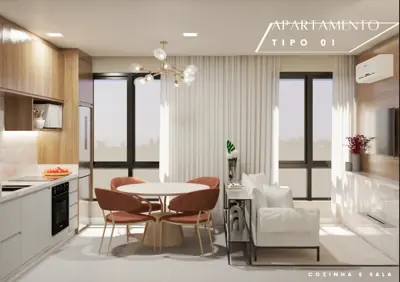
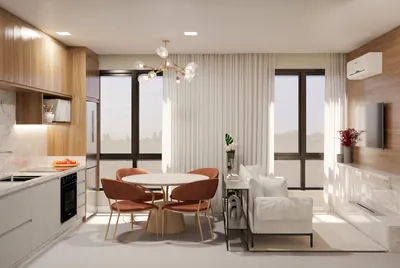
Tour 3D: imagens HD fotorrealistas (Higgsfield), modo foto e correção do Tipo 03
- 4 imagens regeneradas com Nano Banana 2.1 em 2K (Tipo 01, Tipo 02, Tipo 03/05 e salão),
  mais a imagem de referência como nova cozinha do Tipo 01; versões HD, 800 px e miniaturas
- Modo foto no tour: imagem HD sobre o 3D ao chegar em cada ponto, com fade após decodificar,
  volta ao 3D ao andar, botão para alternar, srcset para celular
- lookdev: bump à prova de NaN (o Tipo 03 ficava preto com pontos brancos)
- docs/tour-hd.md: padrão visual, status, bloqueios (créditos, Canva) e passo a passo
- tools/exportar-imagens-tour.py para o acabamento e exportação das próximas imagens

Claude-Session: https://claude.ai/code/session_01AKxKuKdZ5enkKrHiBv7zWP

diff --git a/js/tour/player.js b/js/tour/player.js
@@ -222,13 +222,42 @@ let shot = null, busy = false, queue = Promise.resolve(), want = 0;
 function place(s, jump) {
   const a = lookAngles(s.pos, s.look);
   vel.set(0, 0);
-  if (jump || calm) { pos.set(...s.pos); yaw = yawT = a.yaw; pitch = pitchT = a.pitch; tween = null; }
+  if (jump || calm) { pos.set(...s.pos); yaw = yawT = a.yaw; pitch = pitchT = a.pitch; tween = null; showPhoto(s); }
   else { yaw = yawT; pitch = pitchT; tween = { t: 0, from: { p: pos.clone(), yaw, pitch }, to: { p: new THREE.Vector3(...s.pos), yaw: shortest(yaw, a.yaw), pitch: a.pitch } }; }
   dirty = true;
 }
 const veil = $('loading');
+
+/* ---------- vista fotorrealista em alta definição ----------
+   Cada ponto de foto tem uma imagem fotográfica em HD (até 2560 px). Ao chegar no ponto, ela
+   aparece por cima do 3D com uma transição suave, só depois de baixada e decodificada (sem tela
+   preta nem imagem pela metade). Ao andar, girar ou trocar de ponto, o 3D volta na hora. O
+   navegador escolhe a versão de 800 px ou a HD conforme a tela (srcset). */
+const photoBox = $('photo'), photoImg = $('photoImg'), photoBtn = $('photoBtn');
+let photoOn = false, photoReq = 0;
+async function showPhoto(s) {
+  const req = ++photoReq;
+  photoImg.alt = `Foto realista: ${s.title}`;
+  photoImg.srcset = `${s.photo.replace(/\.webp$/, '-800.webp')} 800w, ${s.photo} 2560w`;
+  photoImg.src = s.photo;
+  try { await photoImg.decode(); } catch { return; }
+  if (req !== photoReq || shot !== s || busy || tween) return;
+  photoOn = true;
+  photoBox.classList.remove('fast'); photoBox.classList.add('on');
+  stage.classList.add('photo-on'); photoBtn.setAttribute('aria-pressed', 'true');
+}
+function hidePhoto(fast = true) {
+  photoReq++;
+  if (!photoOn) return;
+  photoOn = false;
+  photoBox.classList.toggle('fast', fast); photoBox.classList.remove('on');
+  stage.classList.remove('photo-on'); photoBtn.setAttribute('aria-pressed', 'false');
+}
+photoBtn.addEventListener('click', () => { if (photoOn) hidePhoto(false); else if (shot) goShot(shot.id); });
+
 function goShot(id, instant = false) {
   const s = SHOTS.find((x) => x.id === id) || SHOTS[0];
+  hidePhoto(false);
   walkTo = null;
   shot = s;
   updateFov();
@@ -242,8 +271,9 @@ function goShot(id, instant = false) {
   veil.classList.add('on');
   queue = queue.then(() => loadEnv(s.env)).then(() => {
     if (ticket !== want) return; // outra troca foi pedida no meio: ela assume
-    place(s, true);
     busy = false;
+    place(s, true);
+    photoBtn.hidden = false;
     draw(performance.now());
     requestAnimationFrame(() => veil.classList.remove('on'));
   }).catch((err) => { console.error(err); busy = false; veil.classList.remove('on'); });
@@ -423,7 +453,7 @@ function tick(now) {
     yaw = tween.from.yaw + (tween.to.yaw - tween.from.yaw) * e;
     pitch = tween.from.pitch + (tween.to.pitch - tween.from.pitch) * e;
     yawT = yaw; pitchT = pitch;
-    if (tween.t >= 1) tween = null;
+    if (tween.t >= 1) { tween = null; showPhoto(shot); } // chegou ao ponto da foto
   } else {
     // olhar com amortecimento
     yawT += ((keys.has('tr') ? -1 : 0) + (keys.has('tl') ? 1 : 0)) * 1.6 * dt;
@@ -466,6 +496,7 @@ function tick(now) {
     return;
   }
   movedAt = now;
+  if (photoOn && !tween && (!pos.equals(last.p) || yaw !== last.yaw || pitch !== last.pitch)) hidePhoto(); // andou ou girou: volta ao 3D
   if (refined) { refined = false; setQuality(qMove); }
   adaptResolution(now);
   draw(now);

diff --git a/tour.css b/tour.css
@@ -48,6 +48,20 @@ body.tour{height:100vh;height:100dvh;overflow:hidden;display:grid;grid-template-
 .t-help [hidden]{display:none}
 kbd{font:500 .7rem var(--sans);display:inline-grid;place-items:center;min-width:20px;height:20px;padding:0 4px;margin-right:2px;border:1px solid rgba(255,255,255,.4);border-radius:4px}
 
+/* foto fotorrealista do ponto de vista: cobre o 3D só enquanto a pessoa está parada no ponto */
+.t-photo{position:absolute;inset:0;z-index:1;pointer-events:none;opacity:0;transition:opacity .7s ease;background:#15161a}
+.t-photo img{width:100%;height:100%;object-fit:cover;display:block}
+.t-photo.on{opacity:1}
+.t-photo.fast{transition-duration:.3s}
+.t-stage.photo-on .t-pois{opacity:0;pointer-events:none}
+.t-pois{transition:opacity .4s}
+.t-photo-btn{position:absolute;right:14px;top:14px;z-index:3;border:1px solid rgba(232,207,154,.55);background:rgba(14,16,20,.7);color:#f1ebdf;border-radius:999px;padding:9px 16px;font:500 .72rem var(--sans);letter-spacing:.14em;text-transform:uppercase;cursor:pointer}
+.t-photo-btn[hidden]{display:none}
+.t-photo-btn:hover{background:rgba(14,16,20,.9)}
+.t-photo-btn:focus-visible{outline:2px solid var(--gold);outline-offset:2px}
+.t-photo-btn .on-photo,.t-stage.photo-on .t-photo-btn .on-3d{display:none}
+.t-stage.photo-on .t-photo-btn .on-photo{display:inline}
+@media (orientation:portrait){.t-photo img{object-fit:contain}}
 .t-ref{position:absolute;right:14px;bottom:14px;z-index:3;width:min(190px,30%);margin:0;background:rgba(14,16,20,.82);border:1px solid var(--line);border-radius:6px;overflow:hidden;pointer-events:none}
 .t-ref img{display:block;width:100%;aspect-ratio:3/2;object-fit:cover}
 .t-ref figcaption{padding:5px 9px;font-size:.6rem;letter-spacing:.14em;text-transform:uppercase;color:#a9a396}

diff --git a/js/lookdev.js b/js/lookdev.js
@@ -5,6 +5,28 @@
 // - vinheta + grão de filme sutil, como numa foto real
 import * as THREE from 'three';
 
+/* ---------- bump à prova de NaN ----------
+   A fórmula de bump do three.js normaliza um vetor que vira zero quando uma face é vista exatamente
+   de lado (derivadas nulas). O resultado é NaN: um pixel preto no quadro e, na captura do reflexo do
+   cômodo (PMREM), um NaN que o filtro espalha pelo mapa inteiro e apaga o ambiente todo (era o que
+   deixava o Tipo 03 preto com pontos brancos). Aqui a normal original é usada nesses casos. */
+THREE.ShaderChunk.bumpmap_pars_fragment = THREE.ShaderChunk.bumpmap_pars_fragment.replace(
+  /vec3 perturbNormalArb\([\s\S]*?\n\t}\n/,
+  `vec3 perturbNormalArb( vec3 surf_pos, vec3 surf_norm, vec2 dHdxy, float faceDirection ) {
+\t\tvec3 dX = dFdx( surf_pos.xyz ), dY = dFdy( surf_pos.xyz );
+\t\tif ( dot( dX, dX ) < 1e-12 || dot( dY, dY ) < 1e-12 ) return surf_norm;
+\t\tvec3 vSigmaX = normalize( dX );
+\t\tvec3 vSigmaY = normalize( dY );
+\t\tvec3 vN = surf_norm;
+\t\tvec3 R1 = cross( vSigmaY, vN );
+\t\tvec3 R2 = cross( vN, vSigmaX );
+\t\tfloat fDet = dot( vSigmaX, R1 ) * faceDirection;
+\t\tvec3 vGrad = sign( fDet ) * ( dHdxy.x * R1 + dHdxy.y * R2 );
+\t\tvec3 n = abs( fDet ) * surf_norm - vGrad;
+\t\treturn dot( n, n ) > 1e-12 ? normalize( n ) : surf_norm;
+\t}
+`);
+
 const rnd = (seed) => () => { seed |= 0; seed = (seed + 0x6d2b79f5) | 0; let t = Math.imul(seed ^ (seed >>> 15), 1 | seed); t = (t + Math.imul(t ^ (t >>> 7), 61 | t)) ^ t; return ((t ^ (t >>> 14)) >>> 0) / 4294967296; };
 
 /* ---------- variação de rugosidade (manchas suaves + micro-ruído) ---------- */

diff --git a/index.html b/index.html
@@ -146,7 +146,7 @@
       </header>
       <div class="g-track">
           <article class="g-slide">
-            <a class="g-media" href="tour.html#t01-sala" data-cursor="Visitar"><img src="assets/tipo01-sala-cozinha.webp" srcset="assets/tipo01-sala-cozinha-800.webp 800w, assets/tipo01-sala-cozinha.webp 1400w" sizes="(max-width:860px) 92vw, 62vw" width="1400" height="987" alt="Cozinha integrada à sala, com mesa redonda e janelas amplas" decoding="async" loading="lazy"></a>
+            <a class="g-media" href="tour.html#t01-sala" data-cursor="Visitar"><img src="assets/tipo01-sala-cozinha.webp" srcset="assets/tipo01-sala-cozinha-800.webp 800w, assets/tipo01-sala-cozinha.webp 2528w" sizes="(max-width:860px) 92vw, 62vw" width="2528" height="1696" alt="Cozinha integrada à sala, com mesa redonda e janelas amplas" decoding="async" loading="lazy"></a>
             <div class="g-cap"><span class="g-num">01</span><h3>Cozinha e sala</h3><p>Apartamento Tipo 01</p></div>
           </article>
           <article class="g-slide">

diff --git a/tour.html b/tour.html
@@ -44,6 +44,9 @@
 
 <main class="t-stage" id="stage">
   <div class="t-pois" id="pois"></div>
+  <!-- vista fotorrealista em alta definição de cada ponto de foto: aparece ao chegar, some ao andar -->
+  <div class="t-photo" id="photo" aria-hidden="true"><img id="photoImg" alt="" decoding="async" sizes="100vw"></div>
+  <button type="button" class="t-photo-btn" id="photoBtn" aria-pressed="false" hidden><span class="on-3d">Ver foto realista</span><span class="on-photo">Explorar em 3D</span></button>
 
   <div class="t-help" id="help" role="note">
     <span class="fine"><kbd>W</kbd><kbd>A</kbd><kbd>S</kbd><kbd>D</kbd> ou rodinha para andar &nbsp;·&nbsp; <kbd>Shift</kbd> correr &nbsp;·&nbsp; arraste para olhar &nbsp;·&nbsp; clique no chão ou nas câmeras para ir</span>

diff --git a/tools/exportar-imagens-tour.py b/tools/exportar-imagens-tour.py
@@ -1,0 +1,33 @@
+"""Tratamento final e exportação das imagens HD do Tour 3D.
+
+Uso (na raiz do projeto):
+    python3 tools/exportar-imagens-tour.py PASTA
+
+Cada arquivo .png/.jpg/.webp em PASTA deve ter o MESMO nome da imagem que substitui em assets/
+(ex.: tipo01-quarto-1.png -> assets/tipo01-quarto-1.webp). Para cada um são gerados:
+  assets/NOME.webp        até 2560 px, WebP qualidade 80 (modo foto do tour e galeria do site)
+  assets/NOME-800.webp    800 px, para celular (o tour escolhe sozinho via srcset)
+  assets/thumbs/NOME.webp 400 px, miniaturas do menu e das boas-vindas
+
+Tratamento: níveis sem estourar pretos/brancos (autocontraste com corte mínimo, mantendo a cor) e
+nitidez de saída suave. Substitui a etapa de acabamento do Canva quando ela não está disponível.
+"""
+import os
+import sys
+
+from PIL import Image, ImageFilter, ImageOps
+
+src_dir = sys.argv[1]
+for f in sorted(os.listdir(src_dir)):
+    name, ext = os.path.splitext(f)
+    if ext.lower() not in ('.png', '.jpg', '.jpeg', '.webp'):
+        continue
+    im = Image.open(os.path.join(src_dir, f)).convert('RGB')
+    im = ImageOps.autocontrast(im, cutoff=(0.15, 0.1), preserve_tone=True)
+    if im.width > 2560:
+        im = im.resize((2560, round(im.height * 2560 / im.width)), Image.LANCZOS)
+    im.filter(ImageFilter.UnsharpMask(radius=0.8, percent=40, threshold=2)).save(f'assets/{name}.webp', quality=80, method=6)
+    m = im.resize((800, round(im.height * 800 / im.width)), Image.LANCZOS) if im.width > 800 else im
+    m.filter(ImageFilter.UnsharpMask(radius=0.6, percent=50, threshold=2)).save(f'assets/{name}-800.webp', quality=82, method=6)
+    im.resize((400, round(im.height * 400 / im.width)), Image.LANCZOS).save(f'assets/thumbs/{name}.webp', quality=80, method=6)
+    print(f'{name}: {im.width}x{im.height}, {os.path.getsize(f"assets/{name}.webp") // 1024} KB')

diff --git a/docs/tour-hd.md b/docs/tour-hd.md
@@ -1,0 +1,68 @@
+# Tour 3D em HD fotorrealista: status, pipeline e próximos passos
+
+## 1. Padrão visual extraído da imagem de referência
+
+Análise com a skill `photorealistic-render-director`. A imagem enviada (cozinha do Tipo 01, 1086×1448) é o padrão obrigatório para todas as imagens do tour.
+
+| Aspecto | Medida na referência | Como entra nos prompts |
+|---|---|---|
+| Luz principal | Luz do dia difusa pela janela (~6500 K) no lado esquerdo, com queda suave | "6500K daylight diffused through the sheers, 3:1 falloff" |
+| Luzes práticas | Globos do lustre a ~2700 K e fita de LED sob o armário a ~3000 K banhando o backsplash | "chandelier globes glowing 2700K, 3000K under-cabinet LED" |
+| Balanço de branco | ~4300 K: brancos neutros, madeira quente, sem dominante | "warm natural color" |
+| Contraste | Médio (~3:1), pretos abertos e brancos sem estourar | "gentle 3:1 contrast" |
+| Nitidez | De borda a borda (f/8), verticais paralelas | "TS-E 24mm tilt-shift at f/8, verticals perfectly parallel" |
+| Reflexos | Mármore e quartzo polidos com reflexo nítido das luminárias; porcelanato com reflexo difuso; inox escovado acetinado | "soft diffuse reflections", "satin brushed steel" |
+| Microtexturas | Veio contínuo do carvalho, trama do tecido das cadeiras, veios do mármore | "continuous oak grain", "visible boucle loops / weave" |
+| Contato | Sombra de contato sob os pés da mesa e das cadeiras | "tight contact shadows under every chair foot" |
+
+Em cada geração, a **Imagem 1** é a foto original do ambiente (layout travado) e a **Imagem 2** é a referência, usada só como padrão de luz e acabamento.
+
+## 2. Status de cada imagem do Tour 3D
+
+Antes/depois de cada imagem atualizada em `docs/tour-hd/`.
+
+| Ponto do tour | Arquivo | Antes | Depois | Como foi feito |
+|---|---|---|---|---|
+| Tipo 01 · Cozinha e sala | `tipo01-sala-cozinha` | 1400×987, com texto "APARTAMENTO TIPO 01" | **2528×1696**, sem texto | Higgsfield · Nano Banana 2.1 · 2K |
+| Tipo 01 · Cozinha | `tipo01-cozinha` | 1400×990 | **1086×1448** (a sua imagem de referência) | Imagem enviada por você, mesmo ambiente |
+| Tipo 02 · Cozinha e sala | `tipo02-cozinha-sala` | 1400×979, com textos sobrepostos | **2528×1696**, sem textos | Higgsfield · Nano Banana 2.1 · 2K |
+| Tipo 03/05 · Estar e cozinha | `tipo03-sala-cozinha` | **614×544** (captura do Instagram) | **2304×1856** | Higgsfield · Nano Banana 2.1 · 2K |
+| Áreas sociais · Salão | `social-salao-a` | **632×460** (captura), com legenda | **2400×1792**, sem legenda | Higgsfield · Nano Banana 2.1 · 2K |
+
+**Pendentes por falta de créditos (20 arquivos):**
+- Tipo 01: `tipo01-varanda`, `tipo01-quarto-1`, `tipo01-quarto-2`
+- Tipo 02: `tipo02-cozinha-v2`, `tipo02-sacadas` (usado em 2 pontos), `tipo02-quarto-01`
+- Tipo 03/05: `tipo03-cozinha`, `tipo03-sala-tv`, `tipo03-quarto1-a`, `tipo03-quarto1-b`, `tipo03-quarto2-a`, `tipo03-quarto2-b`, `tipo03-infantil`
+- Áreas sociais: `social-salao-b`, `social-hall-a`, `social-hall-b`, `social-pet`, `social-pet-banho`, `social-kids-a`, `social-kids-b`
+
+Esses pontos já usam o modo foto com a imagem oficial atual e passam a mostrar a versão HD assim que o arquivo for trocado.
+
+## 3. Onde travou
+
+| Etapa | O que aconteceu | O que destrava |
+|---|---|---|
+| Higgsfield: créditos | A conta tinha **8,2 créditos** (plano gratuito). O Nano Banana 2.1 custa **2 créditos por imagem em 2K** e **3 em 4K**; o upscale para 4K custa **2**. Foram gastos 8 (4 imagens). | **40 créditos** para as 20 restantes em 2K, ou **60** em 4K nativo |
+| Higgsfield: fila | O plano gratuito roda **1 geração por vez** | Plano pago, ou rodar em sequência (como foi feito) |
+| Canva: design e exportação | As imagens foram importadas na sua biblioteca do Canva ("Santa Ana Tour – Tipo 01/02 Cozinha e Sala (HD)"). A criação de design foi recusada com **"Your team admin has disabled this tool"**, e sem design não há exportação pelo conector. | O administrador da equipe Canva libera o recurso de criar designs para apps conectados. Enquanto isso, o acabamento é feito por `tools/exportar-imagens-tour.py`. |
+| Rede do ambiente | `upload.higgsfield.ai` e os CDNs `d2ol7oe51mr4n9.cloudfront.net` e `d8j0ntlcm91z4.cloudfront.net` estavam bloqueados | Liberados com a sua aprovação durante a sessão |
+
+## 4. Como gerar as imagens restantes (pronto para executar)
+
+1. **Higgsfield**, modelo `nano_banana_2_1` com `resolution: "2k"` (ou `"4k"`). Proporção `3:2` para as imagens horizontais; nas capturas do Tipo 03 e das áreas sociais, a mais próxima do original (`4:3` ou `5:4`).
+   - **Imagem 1:** a imagem atual de `assets/NOME.webp`, convertida para JPG.
+   - **Imagem 2:** `docs/tour-hd/referencia.jpg`.
+2. **Prompt:** use o prompt "Gemini 3 Pro Image (edição com referência)" da imagem em `docs/prompts-fotorrealistas.md` (Nano Banana é o mesmo dialeto) e acrescente no início:
+   > `Match the photographic finish of Image 2: crisp edge-to-edge detail, warm natural color, gentle 3:1 contrast and real material microtexture. Image 2 is only a quality and lighting benchmark; keep everything of Image 1 exactly as it is.`
+3. **Acabamento e exportação:** salve os resultados numa pasta com o nome do asset (ex.: `tipo01-quarto-1.png`) e rode:
+   ```bash
+   python3 tools/exportar-imagens-tour.py PASTA
+   ```
+   O script gera a versão HD, a de 800 px e a miniatura. O tour e o site passam a usá-las sem mudança no código.
+
+## 5. Integração no Tour 3D
+
+- **Modo foto:** ao chegar em cada ponto de foto, a imagem HD aparece por cima do 3D com fade de 0,7 s. Ela só entra depois de baixada **e** decodificada (`img.decode()`), então nunca aparece pela metade nem sobre tela preta.
+- **Volta ao 3D:** ao andar, girar ou trocar de ponto, o 3D volta em 0,3 s. O botão "Ver foto realista" / "Explorar em 3D" alterna entre os dois.
+- **Carregamento progressivo:** o `srcset` faz o celular baixar 800 px e a tela grande baixar a HD. As imagens só são pedidas no ponto em que aparecem, sem pré-carregar o tour inteiro.
+- **Desempenho:** a imagem fica numa camada de compositor por cima do canvas, sem custo de GPU no 3D. Enquanto a foto aparece, o 3D não redesenha (a câmera está parada), então andar não perde quadros.
+- **Correção encontrada no caminho:** o ambiente do Tipo 03 aparecia todo preto com pontos brancos. A causa era um NaN no relevo (bump) que contaminava o mapa de reflexos do cômodo. Foi corrigido em `js/lookdev.js`; os 17 ambientes foram verificados com 0 pixels inválidos.
